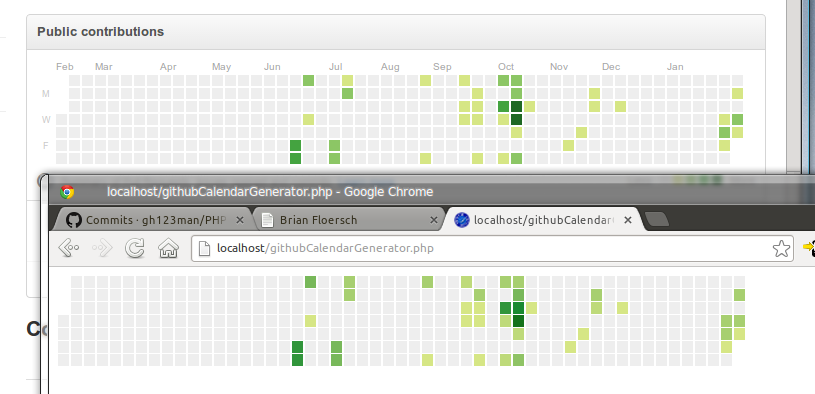
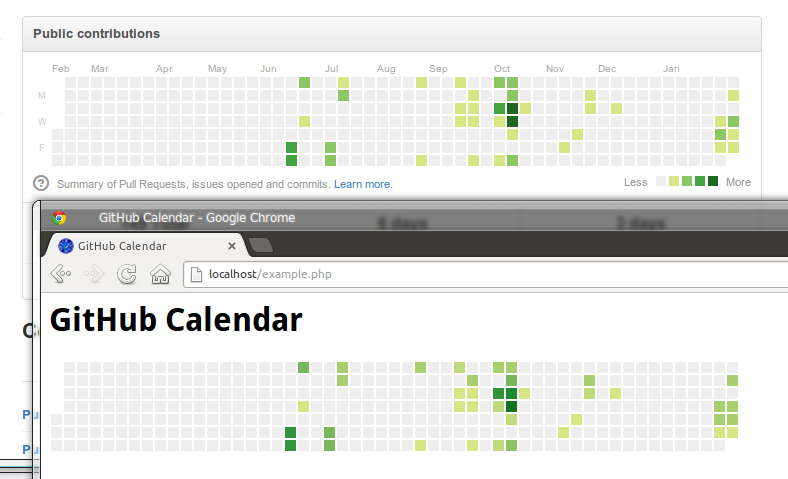
updated image and readme

diff --git a/example.php b/example.php
@@ -14,7 +14,7 @@
         <h1>GitHub Calendar</h1>
 <?php 
 
-    $cal = new githubCalendarGenerator("manticorp");
+    $cal = new githubCalendarGenerator("gh123man");
     echo $cal;
 
 ?>

diff --git a/README.md b/README.md
@@ -3,4 +3,20 @@ GitHub Calendar Generator
 
 Builds your github commit calendar in HTML for use on any website
 
+Usage 
+-----
+    <?php 
+        include "githubCalendarGenerator.php"; 
+        $cal = new githubCalendarGenerator("gh123man");
+        echo $cal;
+    ?>
+or see example.php
+
+Notes
+-----
+Recommend using this on an ajax call in case github changes the api call used to ge the graph data, or it hangs for some reason. This way if it does fail/hang, your page will still load. 
+
+The colors are not *exact*. I mathematically compute the colors, where as it appears github uses fixed colors. The base color (the lightest one) is exactly correct, but the rest are approximates. The advantage to this is that this graph actually shows more detail in variation!
+
 ![first](https://raw.github.com/gh123man/GitHub-Calendar-generator/master/githubcalendar.png)
+
